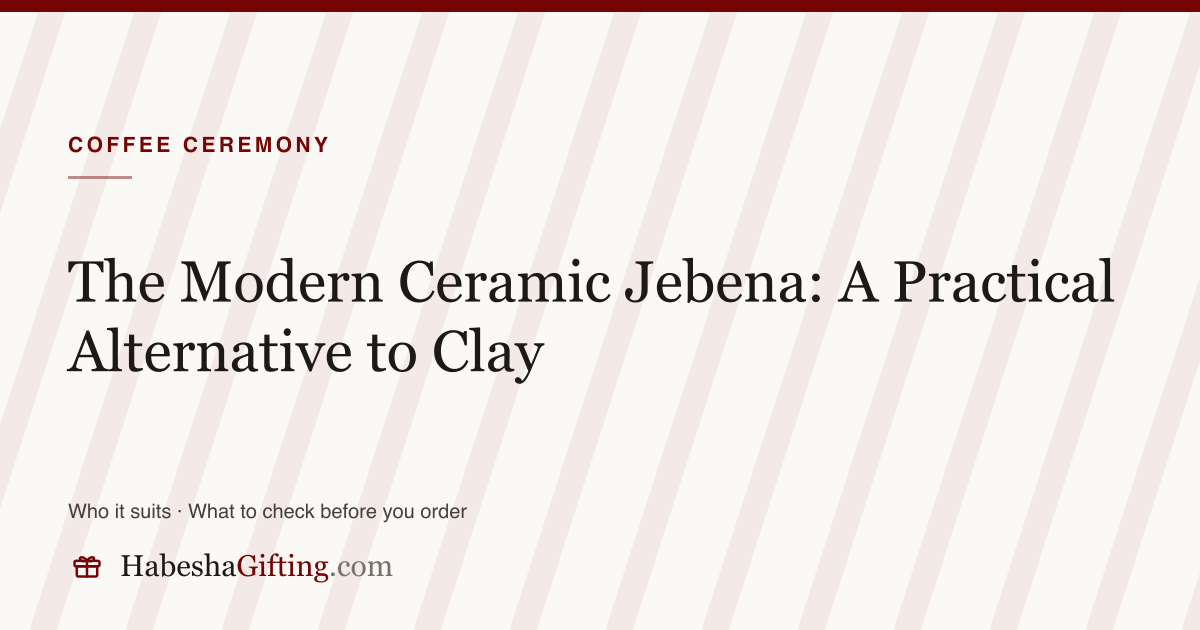
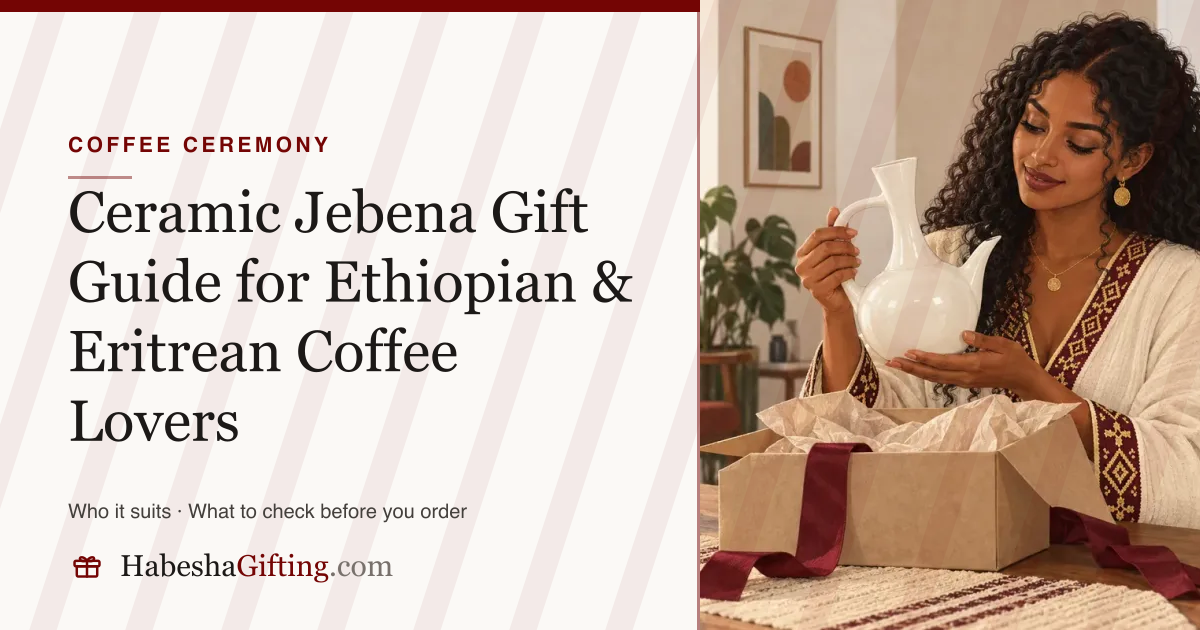
Clarify Ethiopian and Eritrean audience in gift metadata

diff --git a/src/content/products.coffee.ts b/src/content/products.coffee.ts
@@ -84,15 +84,15 @@ export const coffeeProducts: Product[] = [
     affiliateUrl: null,
     image: "/img/products/ceramic-jebena-modern-design",
     art: { hue: 30, motif: "vessel" },
-    updated: "2026-08-14",
-    tags: ["coffee", "jebena", "ceremony", "modern", "kitchen", "housewarming"],
+    updated: "2026-09-16",
+    tags: ["coffee", "jebena", "ceremony", "modern", "kitchen", "housewarming", "habesha", "ethiopian", "eritrean"],
     placements: [
       { category: "coffee-traditional-gifts", subcategory: "jebena-coffee-pots" },
     ],
     guide: {
-      heading: "The Modern Ceramic Jebena: A Practical Alternative to Clay",
+      heading: "Ceramic Jebena Gift Guide for Ethiopian & Eritrean Coffee Lovers",
       standfirst:
-        "Glazed ceramic gives up a little tradition for a lot of convenience. For a first apartment or a nervous host, that is usually the right trade.",
+        "For an Ethiopian or Eritrean coffee lover setting up a first home, a ceramic jebena may be easier to live with than clay. Check the heat-use instructions before gifting one.",
       why: [
         "The glaze is the point. Unglazed clay absorbs oils and needs curing and careful washing; a glazed interior rinses clean, does not hold flavours between uses, and survives a dishwasher-adjacent household.",
         "Ceramic tolerates modern kitchens better. Clay wants a low, even flame; ceramic copes more gracefully with an electric coil or a glass-top hob, which is what most people in the diaspora actually have.",
@@ -144,16 +144,16 @@ export const coffeeProducts: Product[] = [
     affiliateUrl: null,
     image: "/img/products/wooden-coffee-tray-rekbot",
     art: { hue: 35, motif: "arch" },
-    updated: "2026-07-30",
-    tags: ["coffee", "tray", "rekbot", "wood", "wedding", "handcrafted"],
+    updated: "2026-09-16",
+    tags: ["coffee", "tray", "rekbot", "wood", "wedding", "handcrafted", "habesha", "ethiopian", "eritrean"],
     placements: [
       { category: "coffee-traditional-gifts", subcategory: "coffee-trays" },
       { category: "ethiopian-eritrean-gifts", subcategory: "home-decor" },
     ],
     guide: {
-      heading: "The Coffee Tray: The Piece Most People Forget to Buy",
+      heading: "Rekbot Coffee Tray: A Habesha Coffee Ceremony Gift Guide",
       standfirst:
-        "Everyone buys the jebena and the cups. The tray is what turns them into a service — and it is usually the last thing anyone owns.",
+        "A rekbot-style tray gives a Habesha coffee ceremony set a place to be served. Check its size, carrying strength and finish before choosing one as a gift.",
       why: [
         "A tray is what makes the ceremony portable. Coffee is brewed in one place and served in another, often to a room full of people, and carrying a hot pot and twelve cups without one is genuinely awkward.",
         "It is the piece with the longest life. Cups break and clay cracks, but a solid wooden tray outlasts everything else in the set — which is why it works as a wedding or anniversary gift specifically.",
@@ -200,15 +200,15 @@ export const coffeeProducts: Product[] = [
     affiliateUrl: null,
     image: "/img/products/ethiopian-incense-burner-set",
     art: { hue: 300, motif: "vessel" },
-    updated: "2026-08-02",
-    tags: ["incense", "etan", "frankincense", "traditional", "home", "ceremony"],
+    updated: "2026-09-16",
+    tags: ["incense", "etan", "frankincense", "traditional", "home", "ceremony", "habesha", "ethiopian", "eritrean"],
     placements: [
       { category: "coffee-traditional-gifts", subcategory: "incense-traditional" },
     ],
     guide: {
-      heading: "Incense and Etan: The Smallest Gift With the Strongest Memory",
+      heading: "Etan Incense Gifts for an Ethiopian or Eritrean Coffee Ceremony",
       standfirst:
-        "Smell is the sense most tied to memory, which is why a few dollars of frankincense often outperforms a far more expensive gift.",
+        "Etan incense can be a small Ethiopian or Eritrean coffee ceremony gift. Check the scent, burner requirements and whether the recipient uses incense at home.",
       why: [
         "Etan is inseparable from the coffee ceremony and from holidays. Lighting it is the signal that something is beginning — guests are arriving, or a feast day has started.",
         "It is one of the few gifts that recreates a place rather than representing one. For someone far from home, that is a materially different experience from looking at a decorative object.",
@@ -259,16 +259,16 @@ export const coffeeProducts: Product[] = [
     affiliateUrl: null,
     image: "/img/products/woven-mesob-inspired-basket",
     art: { hue: 38, motif: "basket" },
-    updated: "2026-07-11",
-    tags: ["mesob", "basket", "home decor", "handwoven", "traditional", "housewarming"],
+    updated: "2026-09-16",
+    tags: ["mesob", "basket", "home decor", "handwoven", "traditional", "housewarming", "ethiopian"],
     placements: [
       { category: "coffee-traditional-gifts", subcategory: "traditional-home-decor" },
       { category: "ethiopian-eritrean-gifts", subcategory: "home-decor" },
     ],
     guide: {
-      heading: "The Mesob as a Gift: Beautiful, Bulky, and Worth Thinking About",
+      heading: "Mesob Basket Gifts: Choosing Ethiopian-Inspired Home Décor",
       standfirst:
-        "A woven mesob is the most visually striking object in this catalogue. It is also the one most likely to be admired, photographed, and then have nowhere to live.",
+        "A mesob-inspired basket makes a distinctive Ethiopian home gift when the recipient has room for it. Check whether the listing offers a usable table or a decorative piece.",
       why: [
         "It is genuinely handmade, and it looks it. The coiled straw work takes days, and the irregularity that comes with hand-weaving is exactly what makes it read as craft rather than décor bought in bulk.",
         "It has an actual function. A full-size mesob is a communal table — injera is laid directly on it and everyone eats from the same surface, which is the physical expression of how Habesha meals work.",
@@ -319,16 +319,16 @@ export const coffeeProducts: Product[] = [
     affiliateUrl: null,
     image: "/img/products/habesha-textile-wall-hanging",
     art: { hue: 350, motif: "weave" },
-    updated: "2026-08-08",
-    tags: ["textile", "tibeb", "wall art", "home decor", "handwoven", "ethiopian", "eritrean"],
+    updated: "2026-09-16",
+    tags: ["textile", "tibeb", "wall art", "home decor", "handwoven", "ethiopian", "eritrean", "habesha"],
     placements: [
       { category: "ethiopian-eritrean-gifts", subcategory: "home-decor" },
       { category: "coffee-traditional-gifts", subcategory: "traditional-home-decor" },
     ],
     guide: {
-      heading: "Textile Wall Art: Cultural Décor Without the Clichés",
+      heading: "Habesha Textile Wall Art: Ethiopian & Eritrean Gift Ideas",
       standfirst:
-        "Hanging a woven piece is the most restrained way to make a home read as Habesha — no flags, no maps, no souvenirs.",
+        "A woven textile can bring Ethiopian or Eritrean design into a Habesha home. Check the pattern, size, material and hanging method before buying wall art.",
       why: [
         "The tibeb border is the design. The coloured woven band that edges a netela or kemis is a genuine craft tradition with regional variation, and isolating it as wall art puts the actual artistry in the frame rather than a national symbol.",
         "Textiles solve a room problem that prints cannot. They absorb sound, add texture, and read as warm in a way flat framed art does not — which matters in the hard-surfaced rented flats most people live in.",

diff --git a/src/content/products.cultural.ts b/src/content/products.cultural.ts
@@ -132,7 +132,7 @@ export const culturalProducts: Product[] = [
     image: "/img/products/amharic-family-name-print",
     art: { hue: 25, motif: "arch" },
     updated: "2026-09-16",
-    tags: ["print", "wall art", "amharic", "personalized", "home decor", "housewarming", "typography"],
+    tags: ["print", "wall art", "amharic", "personalized", "home decor", "housewarming", "typography", "ethiopian"],
     placements: [
       { category: "personalized-gifts", subcategory: "personalized-home-decor" },
     ],
@@ -194,15 +194,15 @@ export const culturalProducts: Product[] = [
     affiliateUrl: null,
     image: "/img/products/personalized-coffee-mug-amharic",
     art: { hue: 200, motif: "vessel" },
-    updated: "2026-08-11",
-    tags: ["mug", "personalized", "amharic", "coffee", "budget", "office", "funny"],
+    updated: "2026-09-16",
+    tags: ["mug", "personalized", "amharic", "coffee", "budget", "office", "funny", "ethiopian"],
     placements: [
       { category: "personalized-gifts", subcategory: "custom-mugs" },
     ],
     guide: {
-      heading: "The Custom Mug: Low Risk, Surprisingly High Hit Rate",
+      heading: "Personalised Amharic Mugs: A Small Ethiopian Gift With Meaning",
       standfirst:
-        "It is the least ambitious gift in this catalogue and one of the most reliably used. That combination is worth taking seriously.",
+        "A personalised Amharic mug makes a small Ethiopian gift for someone who uses the language. Verify the script and customisation proof before ordering.",
       why: [
         "It gets used daily, which is a low bar that most gifts fail. A mug enters the rotation immediately and stays there, which is more than can be said for most decorative cultural objects.",
         "Ge'ez script on a mug lands well in an office. It is a small, daily, unforced cultural signal, and it reliably starts the conversation the recipient is happy to have.",
@@ -312,17 +312,17 @@ export const culturalProducts: Product[] = [
     affiliateUrl: null,
     image: "/img/products/ethiopian-childrens-book-set",
     art: { hue: 35, motif: "basket" },
-    updated: "2026-08-22",
-    tags: ["books", "kids", "children", "amharic", "tigrinya", "language", "learning"],
+    updated: "2026-09-16",
+    tags: ["books", "kids", "children", "amharic", "tigrinya", "language", "learning", "ethiopian", "eritrean", "habesha"],
     placements: [
       { category: "gifts-for-her", subcategory: "young-girl" },
       { category: "gifts-for-him", subcategory: "young-boy" },
       { category: "gifts-by-occasion", subcategory: "new-baby" },
     ],
     guide: {
-      heading: "Children's Books: The Cultural Gift That Does the Most Work",
+      heading: "Amharic and Tigrinya Children's Books as Habesha Gifts",
       standfirst:
-        "For diaspora families worried about language loss, a good picture book achieves more than any decorative object in this catalogue.",
+        "Amharic and Tigrinya children's books can help Ethiopian and Eritrean families share language at home. Match the book's language and reading level to the child.",
       why: [
         "It addresses the actual concern. Parents raising children abroad routinely watch the language thin out by the second generation, and books are the one gift that pushes directly against that — repeated nightly, in the child's own hands.",
         "Picture books make the language low-pressure. A child who resists a lesson will happily learn twenty words from a story, and the parent reading it usually gets a refresher too.",

diff --git a/src/app/gifts/page.tsx b/src/app/gifts/page.tsx
@@ -8,14 +8,14 @@ import { graph, webPageNode } from "@/lib/schema";
 import { absoluteUrl, routes } from "@/lib/site";
 
 export const metadata: Metadata = {
-  title: "All Gift Categories",
+  title: "Ethiopian & Eritrean Gift Categories",
   description:
-    "Browse every gift category on HabeshaGifting — by recipient, by occasion, cultural gifts, coffee ceremony sets and personalised pieces.",
+    "Browse Ethiopian, Eritrean and Habesha gift ideas by recipient, occasion or tradition, including coffee ceremony gifts and personalised pieces.",
   alternates: { canonical: routes.gifts },
   openGraph: {
-    title: "All Gift Categories | HabeshaGifting",
+    title: "Ethiopian & Eritrean Gift Categories | HabeshaGifting",
     description:
-      "Browse every gift category on HabeshaGifting — by recipient, by occasion, cultural gifts, coffee ceremony sets and personalised pieces.",
+      "Browse Ethiopian, Eritrean and Habesha gift ideas by recipient, occasion or tradition, including coffee ceremony gifts and personalised pieces.",
     url: routes.gifts,
   },
 };
@@ -29,7 +29,7 @@ export default function GiftsIndexPage() {
   const jsonLd = graph(
     ...webPageNode({
       path: routes.gifts,
-      name: "All Gift Categories",
+      name: "Ethiopian & Eritrean Gift Categories",
       description: metadata.description as string,
       trail,
       type: "CollectionPage",
@@ -58,8 +58,8 @@ export default function GiftsIndexPage() {
         <SectionHeading
           as="h1"
           eyebrow="Every way in"
-          title="All Gift Categories"
-          description="Six main categories, each opening onto recipients, occasions or collections. Pick whichever way of thinking about the gift comes most naturally."
+          title="Ethiopian & Eritrean Gift Categories"
+          description="Find Habesha gift ideas by recipient, occasion or tradition. Explore Ethiopian and Eritrean collections, coffee ceremony gifts and personalised keepsakes."
         />
       </div>
 

diff --git a/src/app/gift-guides/page.tsx b/src/app/gift-guides/page.tsx
@@ -7,13 +7,13 @@ import { graph, webPageNode } from "@/lib/schema";
 import { absoluteUrl, routes } from "@/lib/site";
 
 const description =
-  "Every gift guide on HabeshaGifting — what each gift suits, what to check before you order, and where it falls short.";
+  "Ethiopian, Eritrean and Habesha gift guides: who each idea suits, what to check before ordering, and when to choose something else.";
 
 export const metadata: Metadata = {
-  title: "All Gift Guides",
+  title: "Ethiopian & Eritrean Gift Guides",
   description,
   alternates: { canonical: routes.guides },
-  openGraph: { title: "All Gift Guides | HabeshaGifting", description, url: routes.guides },
+  openGraph: { title: "Ethiopian & Eritrean Gift Guides | HabeshaGifting", description, url: routes.guides },
 };
 
 export default function GuidesIndexPage() {
@@ -27,7 +27,7 @@ export default function GuidesIndexPage() {
   const jsonLd = graph(
     ...webPageNode({
       path: routes.guides,
-      name: "All Gift Guides",
+      name: "Ethiopian & Eritrean Gift Guides",
       description,
       modified: guides[0]?.updated,
       trail,
@@ -36,7 +36,7 @@ export default function GuidesIndexPage() {
     {
       "@type": "ItemList",
       "@id": `${absoluteUrl(routes.guides)}#list`,
-      name: "All Gift Guides",
+      name: "Ethiopian & Eritrean Gift Guides",
       description,
       numberOfItems: guides.length,
       itemListElement: guides.map((p, i) => ({
@@ -58,7 +58,7 @@ export default function GuidesIndexPage() {
         <SectionHeading
           as="h1"
           eyebrow={`${guides.length} guides`}
-          title="All Gift Guides"
+          title="Ethiopian & Eritrean Gift Guides"
           description={description}
         />
       </div>

diff --git a/src/app/page.tsx b/src/app/page.tsx
@@ -68,11 +68,11 @@ export default function HomePage() {
           <div className="max-w-2xl">
             <p className="eyebrow">Gift guides for the Habesha community</p>
             <h1 className="mt-4 font-display text-4xl font-semibold leading-[1.1] text-ink sm:text-5xl lg:text-6xl">
-              Thoughtful Gifts for the Habesha in Your Life
+              Ethiopian &amp; Eritrean Gift Ideas for the Habesha in Your Life
             </h1>
             <p className="mt-6 max-w-xl text-lg leading-relaxed text-ink-soft">
-              Discover meaningful gift ideas for Habesha family, friends and every special
-              occasion.
+              Explore Ethiopian and Eritrean gift ideas for Habesha family and friends,
+              from coffee ceremony pieces to personal keepsakes.
             </p>
 
             <div className="mt-9 flex flex-wrap items-center gap-3">

diff --git a/src/lib/site.ts b/src/lib/site.ts
@@ -4,9 +4,9 @@ export const site = {
   name: "HabeshaGifting",
   domain: "habeshagifting.com",
   url: "https://habeshagifting.com",
-  tagline: "Thoughtful gifts for the Habesha in your life",
+  tagline: "Ethiopian & Eritrean Gift Ideas",
   description:
-    "Gift ideas and honest buying guides for Habesha family and friends — coffee ceremony sets, cultural gifts, personalised pieces and gifts for every occasion.",
+    "Ethiopian and Eritrean gift ideas for Habesha family and friends. Explore coffee ceremony gifts, cultural keepsakes and honest guides to choosing well.",
   locale: "en_US",
   email: "hello@habeshagifting.com",
   /** First publication of the site, used for Organization schema. */
